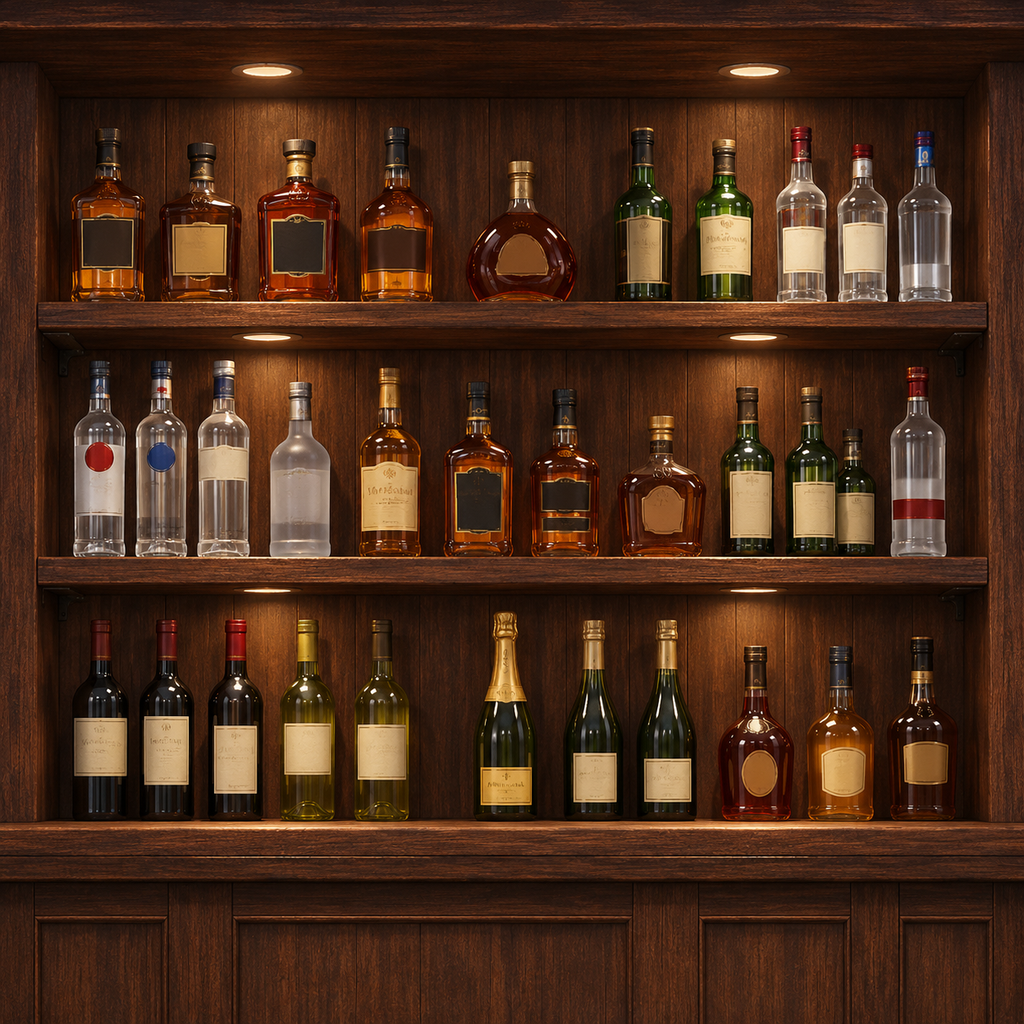
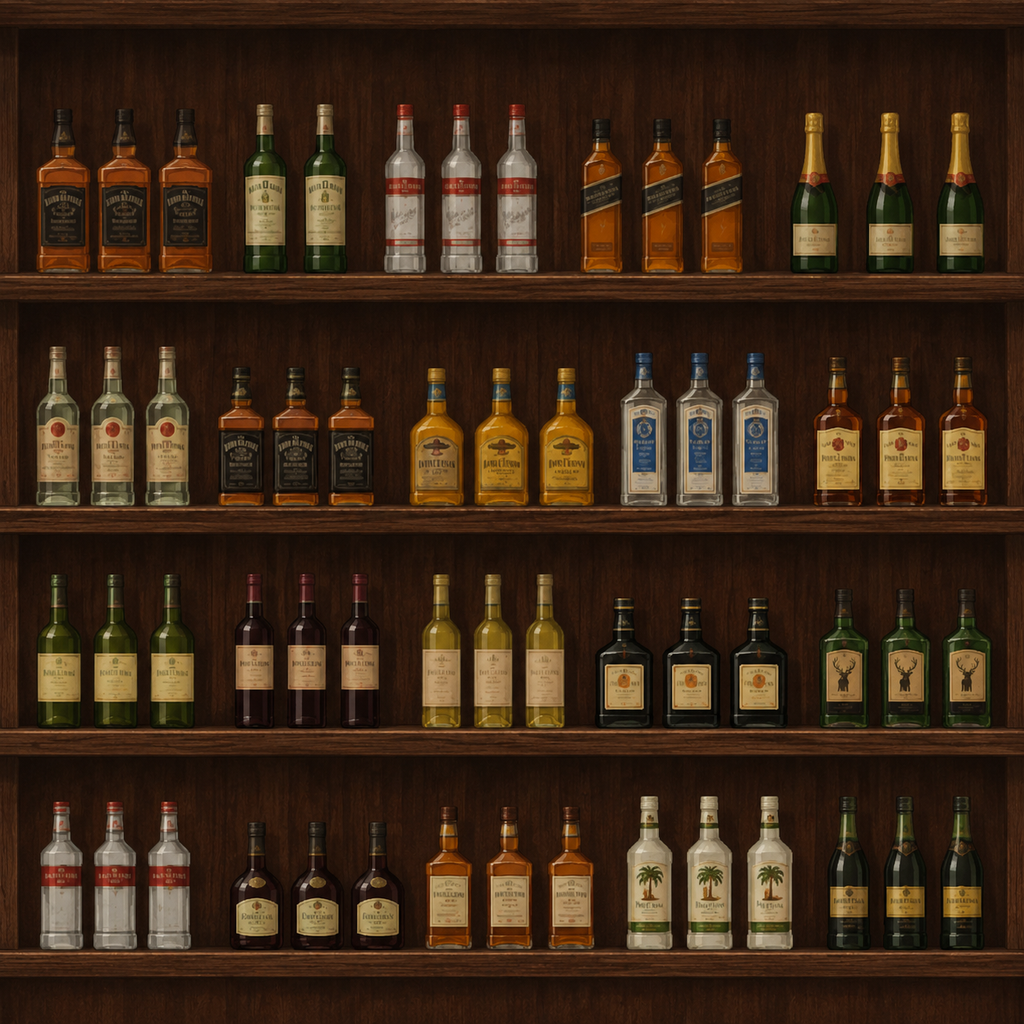
Индекс заготовок: выбран лучший вариант, дубли удалены
Claude-Session: https://claude.ai/code/session_01HxbqebESYbqnzpEnNQWdWw

diff --git a/client-mods/README.md b/client-mods/README.md
@@ -48,7 +48,7 @@
 
 Лежат в `src/`, но пока не используются (этих текстур нет в txd полиции, нужен файл, где они есть):
 bpd4_blue_fabric (BLUE_FABRIC), bpd4_black_leather (CJ_CUSHION2), bpd4_wood_planks (CJ_WOOD1),
-bpd4_subway_tile, bpd4_concrete, bpd4_brick, bpd4_sign_cells, bpd4_sign_interrogation, bpd4_sign_lockers, bpd4_sign_armory, bpd4_height_chart, bpd4_floor_grey_tile (таблички и ростомер нужна своя модель).
+bpd4_subway_tile, bpd4_concrete, bpd4_sign_cells, bpd4_sign_interrogation, bpd4_sign_lockers, bpd4_sign_armory, bpd4_height_chart, bpd4_floor_grey_tile (таблички и ростомер нужна своя модель).
 
 Сборка: `python client-mods/tools/build_lspd.py <папка с оригинальными txd> <папка для результата>`.
 Готовые `.txd` в репозиторий не кладём: в них остаются оригинальные текстуры Rockstar.
@@ -104,12 +104,29 @@ bpd4_subway_tile, bpd4_concrete, bpd4_brick, bpd4_sign_cells, bpd4_sign_interrog
 Сборка: `python client-mods/tools/build_radar.py <оригинальный models/hud.txd> <папка для результата>`,
 готовый `hud.txd` кладётся в `models/` игры. Значок на точку ставит админ в `/markers`.
 
-## bank/, bar/, shop/, gangs/, dealer/, hospital/ — заготовки для будущих интерьеров
+## Заготовки для будущих интерьеров (выбран лучший вариант из присланных, дубли удалены)
 
-Картинки из ChatGPT, пока никуда не подключены: мрамор (бежевый, два тёмных), дверь хранилища,
-стойка кассира; бар: две стойки и два варианта полок с бутылками; магазин: холодильник с напитками (v2_brands не использовать: реальные бренды), два стеллажа, серая плитка, вывеска 24/7; gangs: граффити Ballas с прозрачным фоном, флаг Grove, жёлтый облезлый кирпич; dealer: вывеска автосалона; hospital: зелёная стена с отбойником. В lspd/src запасной голубой терраццо (bpd4_terrazzo_blue).
+| Папка | Файл | Что | Куда планируется |
+|---|---|---|---|
+| bank/src | bank_marble_beige | бежевый мрамор плиткой | пол зала |
+| bank/src | bank_marble_dark | тёмный мрамор | пол у касс / хранилища |
+| bank/src | bank_teller_counter | стойка кассира | касса |
+| bank/src | bank_vault_door | дверь хранилища | хранилище |
+| bar/src | bar_counter_wood | фасад стойки | барная стойка |
+| bar/src | bar_back_shelves | полки с бутылками | стена за стойкой |
+| shop/src | shop_drinks_fridge | холодильник без брендов | 24/7 |
+| shop/src | shop_grocery_shelves | металлический стеллаж | 24/7 |
+| shop/src | shop_floor_grey_tile | серая плитка | пол 24/7 |
+| shop/src | shop_sign_247 | вывеска 24/7 | вход (или текстом с сервера) |
+| dealer/src | dealer_sign | вывеска «Автосалон Bastion» | автосалон |
+| hospital/src | hospital_wall_green | зелёная стена с отбойником | коридоры больницы |
+| gangs/src | ballas_graffiti | граффити Ballas, прозрачный фон | теги банд |
+| gangs/src | grove_flag | флаг Grove | район Grove |
+| gangs/src | yellow_brick_worn | жёлтый облезлый кирпич | стены в гетто |
+| common/src | garage_concrete_tyres, concrete_tiles, asphalt, parquet, plaster_beige, carpet_blue, corrugated_metal, brick_red | базовые бесшовные тайлы | любые интерьеры |
+| lspd/src | bpd4_sign_*, bpd4_height_chart | таблички и ростомер | текстом/объектом с сервера |
+| lspd/src | bpd4_blue_fabric, bpd4_black_leather, bpd4_wood_planks | обивка, подушки, дерево | мебель полиции, нужен gta_int.img |
+| lspd/src | bpd4_terrazzo_blue, bpd4_concrete, bpd4_subway_tile | запасные | если какой-то пол не понравится |
 
-## common/ — базовые бесшовные тайлы
-
-Для любых интерьеров: бетон гаража со следами шин, бетонная плитка, асфальт, паркет, бежевая штукатурка,
-синий ковролин, профнастил, красный кирпич v2. Пока никуда не подключены.
+Удалены как худшие дубли: второй холодильник (реальные бренды), деревянный стеллаж, полки и стойка бара в перспективе,
+тёмный мрамор 3:2, кирпич v1, лишняя серая плитка, второй ковролин и второй терраццо.
